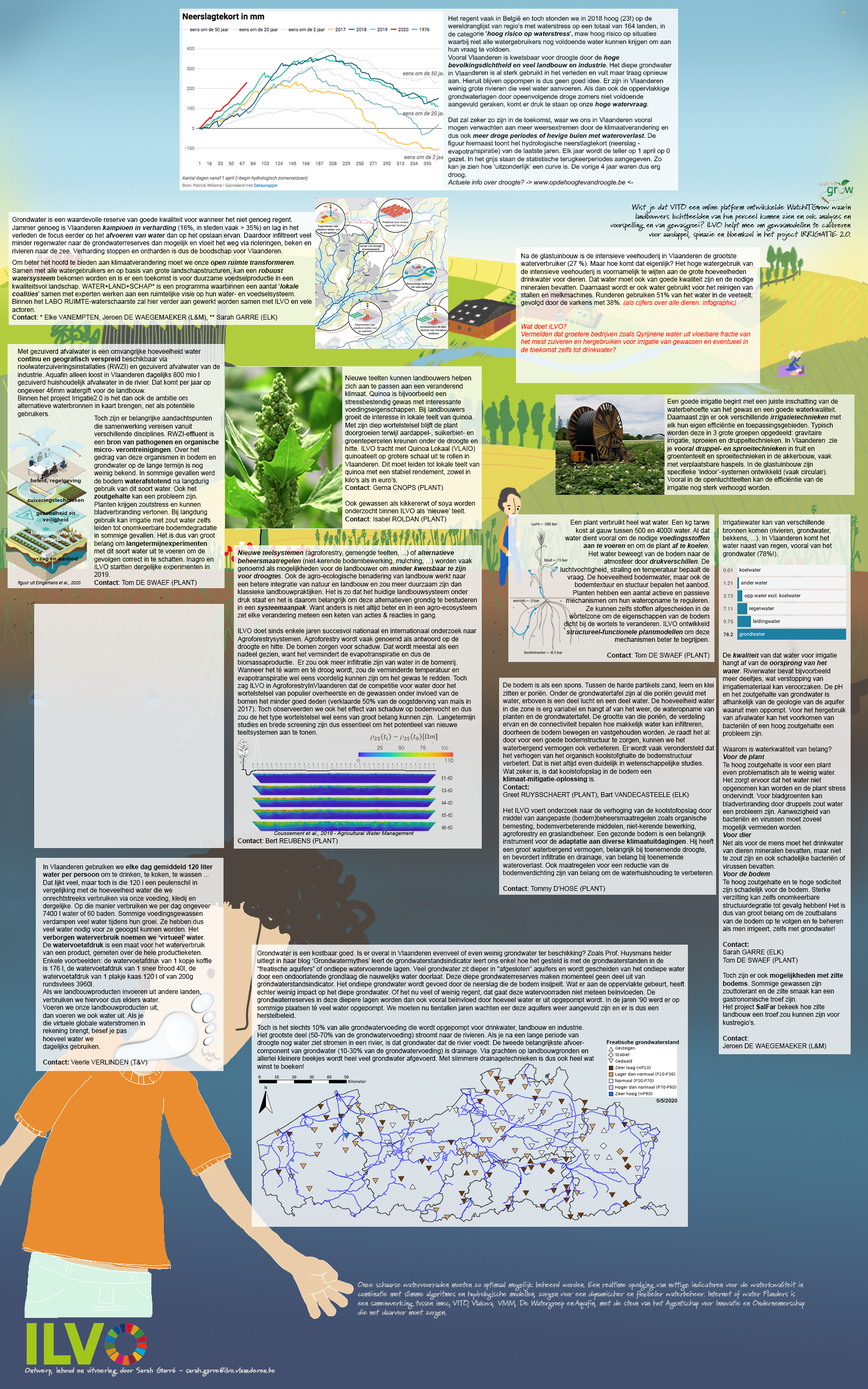
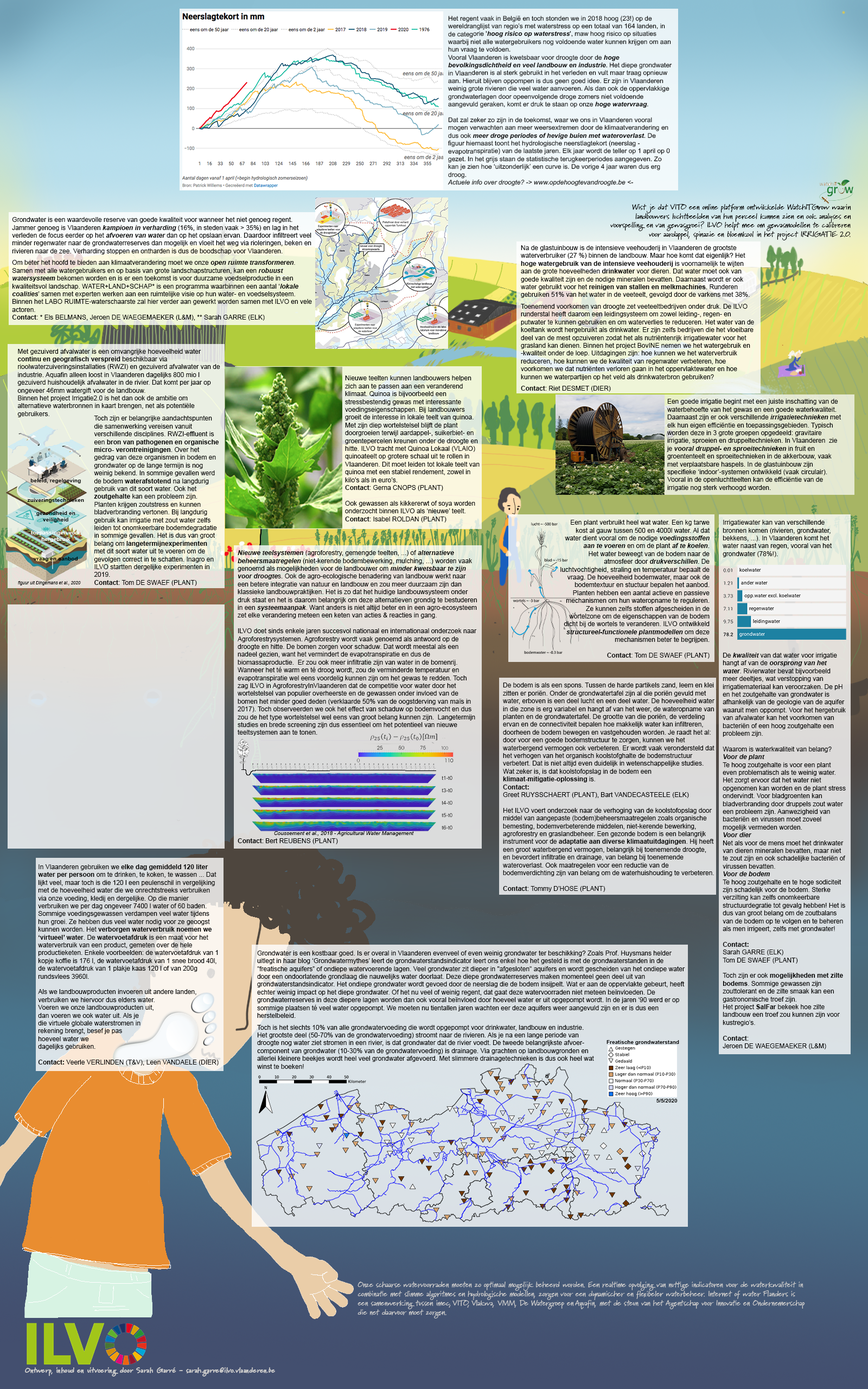
update incomplete info

Changed region(s): [[0.0, 0.4375, 0.25, 0.7812], [0.5938, 0.1562, 0.875, 0.2812]]

diff --git a/index.html b/index.html
@@ -28,7 +28,7 @@
 		<a href="https://www.ilvo.vlaanderen.be/language/nl-BE/NL/Pers-en-media/Alle-media/articleType/ArticleView/articleId/5672/Lokale-teelt-van-quinoa-in-stroomversnelling.aspx#.XtEJcMZcJBw">
 			<span>Kunnen we nu olijven telen in Vlaanderen?</span></a></li>
 	<li id="water-reuse"><a href="water-reuse.html"><span>Zullen wat wat meer water her-gebruiken?</span></a></li>
-    <li id="drainage"><a href="drainage.html"><span>Is hergebruik van water een optie?</span></a></li>
+    <li id="drainage"><a href="drainage.html"><span>Moeten we wel zoveel draineren?</span></a></li>
 	<li id="soil-management"><a href="soil.html"><span>Kan de bodem (meer) water opslaan?</span></a></li>
 	<li id="groundwater">
 		<a href="https://www.vmm.be/water/droogte/impact-droogte-op-grondwater">
